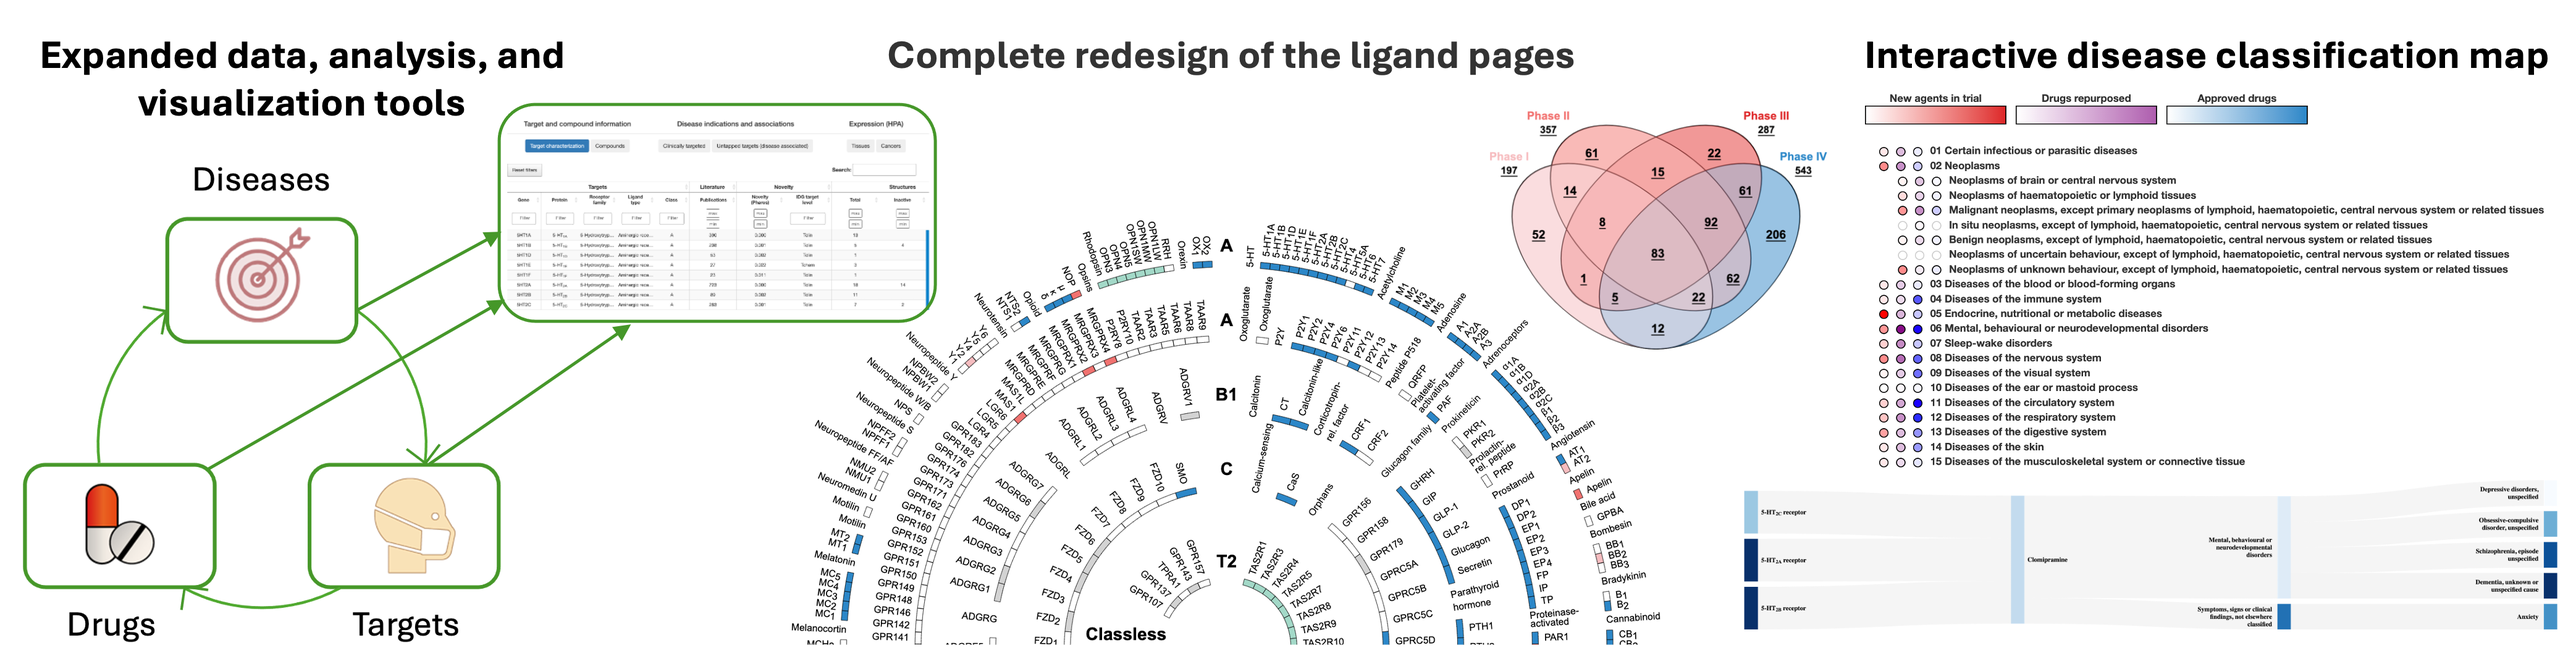
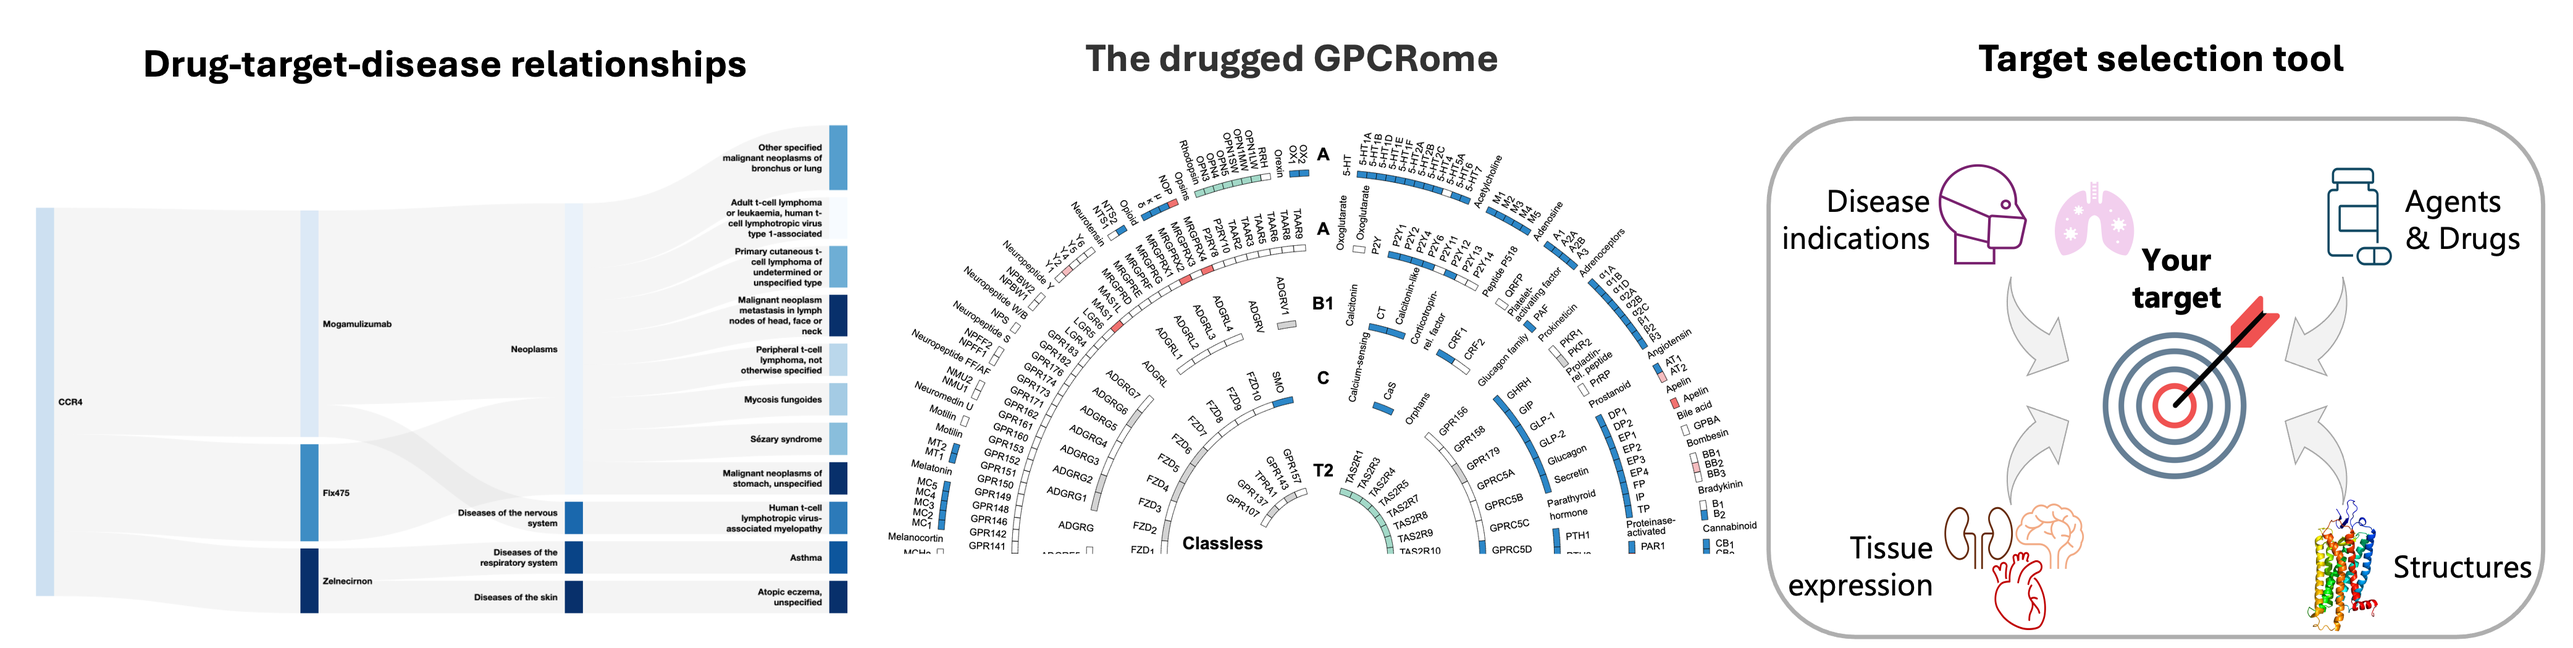
UPDATE: fixed carousel image and link

diff --git a/home/templates/home/index_gpcr.html b/home/templates/home/index_gpcr.html
@@ -22,17 +22,8 @@
 
                 <!-- Wrapper for carousel slides -->
                 <div class="carousel-inner" role="listbox">
-                    <div class="item active">
-                        <a href='https://www.nature.com/articles/s41573-025-01139-y' target="_blank">
-                          <img src="{% static 'home/carousel/carousel_drugs.png' %}">
-                        </a>
-                        <div class="carousel-caption">
-                            <h3><a href="/drugs/overview" target="_blank">Drug update</a></h3>
-                            <p>Explore the new and improved drug section</p>
-                        </div>
-                    </div>
 
-                    <div class="item">
+                    <div class="item active">
                         <a href='https://academic.oup.com/nar/article/51/D1/D395/6827106?login=true' target="_blank">
                           <img src="{% static 'home/carousel/carousel_datamapper.png' %}">
                         </a>
@@ -59,6 +50,16 @@
                         <div class="carousel-caption">
                             <h3>Structure models</h3>
                             <p>Inactive-/active state GPCRs and physiological ligand complexes</p>
+                        </div>
+                    </div>
+
+                    <div class="item">
+                        <a href='https://www.biorxiv.org/content/10.1101/2025.01.11.632537v1' target="_blank">
+                          <img src="{% static 'home/carousel/carousel_drugs.png' %}">
+                        </a>
+                        <div class="carousel-caption">
+                            <h3><a href="/drugs/overview" target="_blank">New drug resource</a></h3>
+                            <p>Agents in trial, approved drugs, target and diseases</p>
                         </div>
                     </div>
 
